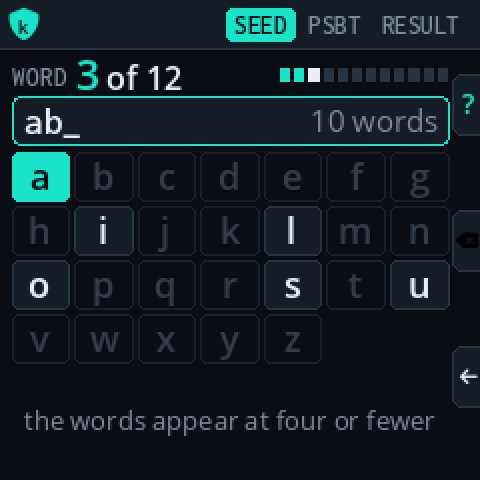
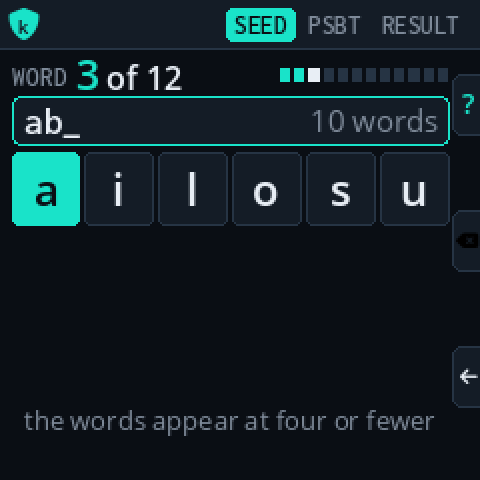
README for v7.16: host question, donation on the splash, no explorer
- Latest v7.16; tags and image names in "Verify the image" and "Build from source".
- "Address check" (no explorer); the donation details are on the splash, not at the
  end of a session; the host is asked right after START on the Raspy Max.
- Screens: 01-splash (language and Donate), new 10-host, classic splash with the heart,
  classic seed words with only the possible letters, classic donation from the heart.
  09-result-italian dropped from the Raspy Max table (the Italian result is classic-08).
- tools/readme_screenshots.py: 10-host instead of 09-result-italian.

Claude-Session: https://claude.ai/code/session_01Lh6Cb24bWZq8mUGLtPZmHu

diff --git a/tools/readme_screenshots.py b/tools/readme_screenshots.py
@@ -26,7 +26,7 @@ SHOTS = [   # (file name, screen name in screens(), language)
     ("06-details", "details", "en"),
     ("07-broadcast", "broadcast", "en"),
     ("08-help", "help result", "en"),
-    ("09-result-italian", "result", "it"),
+    ("10-host", "host", "en"),          # v7.16: the host question after START (the Italian result: classic-08)
 ]
 
 # v7.14: the classic SeedSigner (240x240), saved at twice the size (each pixel a 2x2 block)

diff --git a/README.md b/README.md
@@ -6,7 +6,7 @@
 
 | | |
 |---|---|
-| **Latest** | v7.15, see [Releases](../../releases) |
+| **Latest** | v7.16, see [Releases](../../releases) |
 | **Formerly** | Anti-Klepto Check, up to v7.14: same project, same repository history, same signing key. The releases v7.10 and v7.14 keep the old name in their file names. |
 | **Runs on** | **[Raspy Max v5](https://github.com/perseo-lab/raspy-max-hardware)**: Raspberry Pi Zero + 3.5" 480×320 touch display + battery + camera (parts list, case and build guide in its repository).<br>**Standard SeedSigner** (since v7.12): Raspberry Pi Zero + Waveshare 1.3" 240×240 LCD HAT (joystick and three keys) + camera.<br>One image for each: same code, same checks. |
 | **Signers it checks** | Coldcard Q, SeedSigner, Trezor (any signer with deterministic RFC 6979 nonces, see *Limits*) |
@@ -34,16 +34,16 @@ Anti-Skippy Check boots from its own microSD on a [Raspy Max](https://github.com
 | **SIGHASH_ALL** | on every signature, and low-S on every signature |
 | **Txid match** | the full txid, shown large, to compare with Sparrow's |
 | **Change check** | every output classified YOURS / NOT YOURS / NOT VERIFIED. Single-sig change keys are re-derived from the seed. Multisig change must match the descriptor confirmed against your paper backup, or the quorum being spent. |
-| **Address check / explorer** | is this address in your wallet? (single-sig BIP84/49/44, or a multisig descriptor from your backup) |
+| **Address check** | is this address in your wallet? (single-sig BIP84/49/44, or a multisig descriptor from your backup) |
 | **Air-gapped** | the microSD is remounted read-only and modules that could write it are blocked by an import guard. Language and host choices live in RAM only. |
 
-The result names its four checks, each green or not: **Nonce**, **Sighash ALL**, **Txid**, **Change address** (certified: derived from your seed). Then where the money goes, with the whole address, the change and the fee; every detail is one step away. A **"?"** on every screen explains what to do at that step and why. At the end of a session, an invitation to donate shows the signed payment details as QR codes (see *Support the project*).
+The result names its four checks, each green or not: **Nonce**, **Sighash ALL**, **Txid**, **Change address** (certified: derived from your seed). Then where the money goes, with the whole address, the change and the fee; every detail is one step away. A **"?"** on every screen explains what to do at that step and why. The signed donation details are on the splash, as QR codes, for whoever wants them (see *Support the project*).
 
 If everything is green, the device rebuilds the transaction **from the signatures it checked** and shows it as a QR code: you broadcast *that* one from Sparrow (File › Load Transaction › From QR).
 
 ## Workflow
 
-The host is **[Sparrow](https://sparrowwallet.com/)**: it builds the transaction, carries the QR codes between the signer and the verifier, and broadcasts.
+The host is **[Sparrow](https://sparrowwallet.com/)**: it builds the transaction, carries the QR codes between the signer and the verifier, and broadcasts. The device asks which host you use right after START (on the standard SeedSigner: on the splash), nothing preselected on the Raspy Max.
 
 1. Create the transaction in Sparrow and sign it on your hardware wallet as usual.
 2. Scan the signed PSBT (from Sparrow or from the signer's screen) into Anti-Skippy Check. For a Coldcard Q: the final transaction plus the unsigned PSBT.
@@ -60,21 +60,21 @@ Rendered from the device code by [`tools/readme_screenshots.py`](tools/readme_sc
 
 | | | |
 |---|---|---|
-| ![Splash: host and language, RAM only](docs/screenshots/01-splash.png) | ![Three steps](docs/screenshots/02-home.png) | ![Typing the seed words: only the letters that lead to a BIP-39 word](docs/screenshots/03-seed-words.png) |
-| Splash: host and language, RAM only | Three steps | Typing the seed words: only the letters that lead to a BIP-39 word |
-| ![The whole txid, to compare with Sparrow](docs/screenshots/04-txid.png) | ![Result: where the money goes, change proven yours](docs/screenshots/05-result.png) | ![Details](docs/screenshots/06-details.png) |
-| The whole txid, to compare with Sparrow | Result: where the money goes, change proven yours | Details |
-| ![Broadcast THIS: the checked transaction as a QR](docs/screenshots/07-broadcast.png) | !["?" help: what to do and why](docs/screenshots/08-help.png) | ![The same result in Italian](docs/screenshots/09-result-italian.png) |
-| Broadcast THIS: the checked transaction as a QR | "?" help: what to do and why | The same result in Italian |
+| ![Splash: language (RAM only) and donation](docs/screenshots/01-splash.png) | ![After START: which host, nothing preselected](docs/screenshots/10-host.png) | ![Three steps](docs/screenshots/02-home.png) |
+| Splash: language (RAM only) and donation | After START: which host, nothing preselected | Three steps |
+| ![Typing the seed words: only the letters that lead to a BIP-39 word](docs/screenshots/03-seed-words.png) | ![The whole txid, to compare with Sparrow](docs/screenshots/04-txid.png) | ![Result: where the money goes, change proven yours](docs/screenshots/05-result.png) |
+| Typing the seed words: only the letters that lead to a BIP-39 word; a key lights up when pressed | The whole txid, to compare with Sparrow | Result: where the money goes, change proven yours |
+| ![Details](docs/screenshots/06-details.png) | ![Broadcast THIS: the checked transaction as a QR](docs/screenshots/07-broadcast.png) | !["?" help: what to do and why](docs/screenshots/08-help.png) |
+| Details | Broadcast THIS: the checked transaction as a QR | "?" help: what to do and why |
 
 **Standard SeedSigner** (240×240, joystick and three keys; shown at twice the size). The joystick moves, its center chooses; KEY1 opens the "?" page, KEY2 deletes or zooms, KEY3 goes back. A tab beside each key says what it does on that screen.
 
 | | | | |
 |---|---|---|---|
-| ![Splash](docs/screenshots/classic-01-splash.png) | ![Seed words](docs/screenshots/classic-02-seed-words.png) | ![Txid](docs/screenshots/classic-03-txid.png) | ![Result: the four checks](docs/screenshots/classic-04-result-checks.png) |
-| Splash | Seed words, alphabetical | The whole txid; no answer preselected | Result: the four checks |
+| ![Splash: language, host and the heart](docs/screenshots/classic-01-splash.png) | ![Seed words: only the possible letters](docs/screenshots/classic-02-seed-words.png) | ![Txid](docs/screenshots/classic-03-txid.png) | ![Result: the four checks](docs/screenshots/classic-04-result-checks.png) |
+| Splash: language and host; the heart top left | Seed words: only the letters that can still make one | The whole txid; no answer preselected | Result: the four checks |
 | ![Result: the whole address](docs/screenshots/classic-05-result-address.png) | ![Broadcast THIS](docs/screenshots/classic-06-broadcast.png) | ![Support the project](docs/screenshots/classic-07-donate.png) | ![The result in Italian](docs/screenshots/classic-08-result-italian.png) |
-| Scrolling down: the whole address | Broadcast THIS | At the end: support the project | The result in Italian |
+| Scrolling down: the whole address | Broadcast THIS | From the heart: support the project | The result in Italian |
 
 ---
 
@@ -132,12 +132,12 @@ It only reads the two image files: no root rights, nothing mounted, nothing inst
 #    and verify it with SeedSigner's own instructions first
 # 2. this repository at the release tag, with its signature checked
 git clone https://github.com/perseo-lab/anti-skippy-check.git
-git -C anti-skippy-check tag -v v7.15            # standard SeedSigner image: v7.15-classic
+git -C anti-skippy-check tag -v v7.16            # standard SeedSigner image: v7.16-classic
 # 3. the audit
-python3 anti-skippy-check/tools/ssmax_image_audit.py seedsigner_os.0.8.7.pi0.img anti-skippy-check-v7.15-raspy-max-pi0.img \
-    --app-tree anti-skippy-check --app-rev v7.15
-python3 anti-skippy-check/tools/ssmax_image_audit.py seedsigner_os.0.8.7.pi0.img anti-skippy-check-v7.15-seedsigner-pi0.img \
-    --app-tree anti-skippy-check --app-rev v7.15-classic
+python3 anti-skippy-check/tools/ssmax_image_audit.py seedsigner_os.0.8.7.pi0.img anti-skippy-check-v7.16-raspy-max-pi0.img \
+    --app-tree anti-skippy-check --app-rev v7.16
+python3 anti-skippy-check/tools/ssmax_image_audit.py seedsigner_os.0.8.7.pi0.img anti-skippy-check-v7.16-seedsigner-pi0.img \
+    --app-tree anti-skippy-check --app-rev v7.16-classic
 echo "exit status: $?"
 ```
 
@@ -164,8 +164,8 @@ python3 -m venv ~/venv/anti-skippy
 The images are built with [SeedSigner OS](https://github.com/SeedSigner/seedsigner-os) (the 0.8.7 checkout), with this repository and the release tag as the app source, one build per device:
 
 ```bash
-SS_ARGS="--pi0 --app-repo=<this repository> --app-branch=v7.15" docker compose up --force-recreate --build          # Raspy Max
-SS_ARGS="--pi0 --app-repo=<this repository> --app-branch=v7.15-classic" docker compose up --force-recreate --build  # standard SeedSigner
+SS_ARGS="--pi0 --app-repo=<this repository> --app-branch=v7.16" docker compose up --force-recreate --build          # Raspy Max
+SS_ARGS="--pi0 --app-repo=<this repository> --app-branch=v7.16-classic" docker compose up --force-recreate --build  # standard SeedSigner
 ```
 
 ---
@@ -187,7 +187,7 @@ Ollen_47 <github.mandate556@passmail.net>
 
 ## Support the project
 
-Anti-Skippy Check is free and open source. If it is useful to you, a donation is welcome. The device shows the same details as QR codes at the end of a session (and this page's link):
+Anti-Skippy Check is free and open source. If it is useful to you, a donation is welcome. The device shows the same details as QR codes from its splash (*Donate*; on the standard SeedSigner, the heart top left), with this page's link:
 
 - **Lightning**, a **BOLT12 offer**: scan it with Phoenix, Zeus or another BOLT12 wallet.
 - **On-chain**, a **Silent Payments address (BIP 352)**: every payment lands on a fresh Taproot output, so donations can't be linked or counted from outside.
